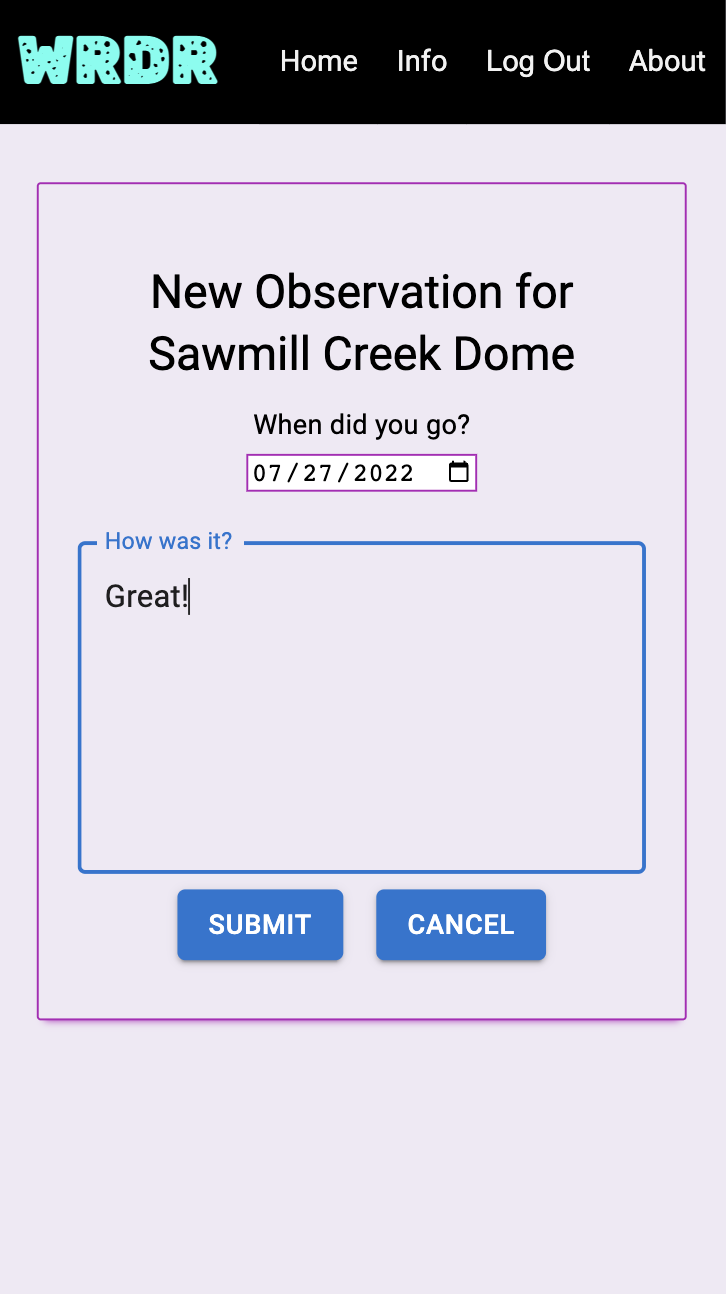
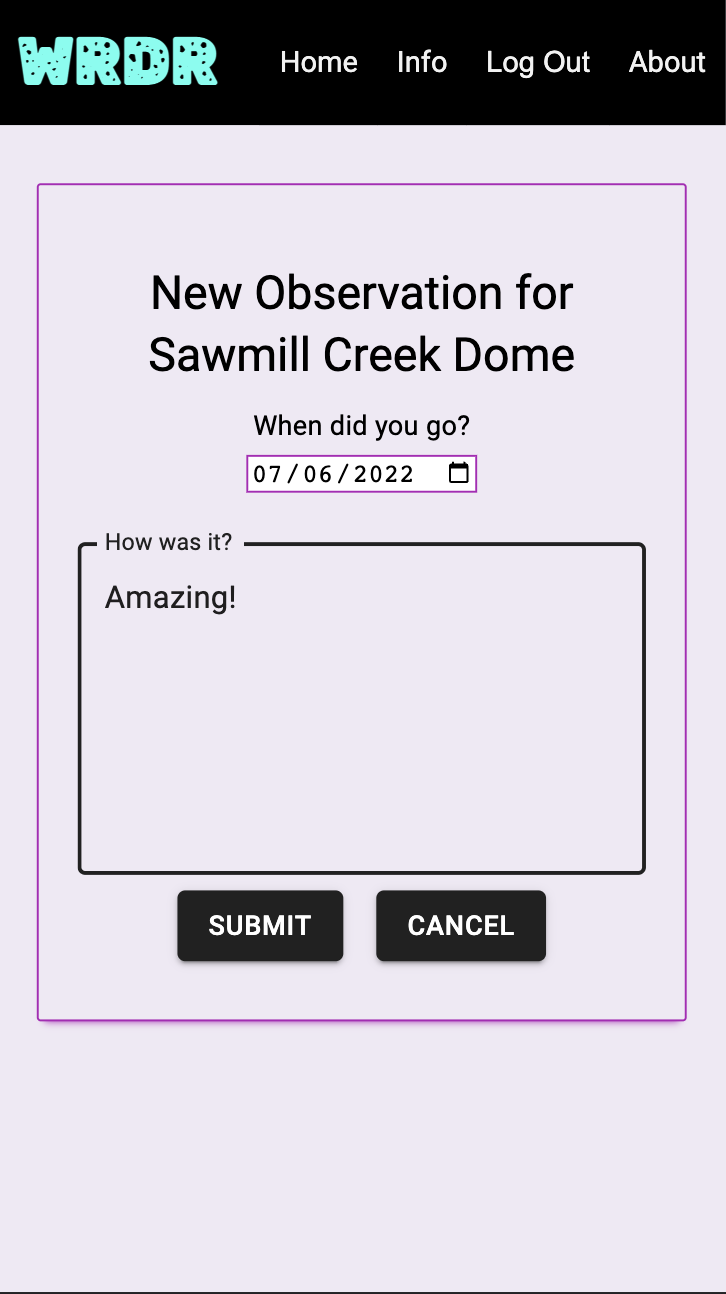
MUI color theme, new screenshots, info page, and increased API retry call delay

diff --git a/src/components/InfoPage/InfoPage.jsx b/src/components/InfoPage/InfoPage.jsx
@@ -1,4 +1,6 @@
 import React from 'react';
+import Typography from '@mui/material/Typography';
+import image from './palisade2.jpeg';
 
 // This is one of our simplest components
 // It doesn't have local state
@@ -7,8 +9,16 @@ import React from 'react';
 
 function InfoPage() {
   return (
-    <div className="container">
-      <p>Info Page</p>
+    <div className="areas-container">
+      <Typography variant='h6'>
+        WRDR was built with: <br /> 
+        </Typography>
+        <Typography variant='body2'>
+        React, Redux, Redux-Saga, Express, Node.js, PostgreSQL, 
+        Material UI, and The National Weather Service API (https://api.weather.gov);
+      </Typography>
+      <br />
+      <img src={image} alt="" />
     </div>
   );
 }

diff --git a/src/redux/sagas/forecast.saga.js b/src/redux/sagas/forecast.saga.js
@@ -37,7 +37,7 @@ function* fetchForecast(action){
         // if there's an error, try above requests 5 more times with a delay
         if (tries < 5) {
             yield tries++;
-            yield delay(500*tries); //exponential backoff: delay increases each time
+            yield delay(750*tries); //exponential backoff: delay increases each time
             yield put({ type: 'FETCH_FORECAST', action: action });
         } else {
             // alert('National Weather Service API not responding. Refresh to retry');

diff --git a/src/index.js b/src/index.js
@@ -6,9 +6,22 @@ import store from './redux/store';
 
 import App from './components/App/App';
 
+// for MUI color theme
+import { createTheme, ThemeProvider} from '@mui/material/styles';
+
+const theme = createTheme({
+  palette: {
+    primary: {
+      main: '#212121',
+    }
+  },
+});
+
 ReactDOM.render(
   <Provider store={store}>
-    <App />
+    <ThemeProvider theme={theme}>
+      <App />
+    </ThemeProvider>
   </Provider>,
   document.getElementById('react-root'),
 );

diff --git a/src/components/App/App.css b/src/components/App/App.css
@@ -105,7 +105,7 @@ Form Treatment
   margin: 0 auto 20px;
   background-color: #EFE9F4;
   box-shadow: 0 4px 4px -3px rgb(176, 31, 184);
-  border: rgb(176, 31, 184) solid 1px;
+  border: rgb(176, 31, 184) solid 2px;
   border-radius: 3px;
   text-align: center;
 }

diff --git a/src/components/UserPage/UserPage.css b/src/components/UserPage/UserPage.css
@@ -18,7 +18,7 @@
     background-color: #EFE9F4;
     text-align: center;
     box-shadow: 0 4px 4px -4px rgb(176, 31, 184);
-    border: rgb(176, 31, 184) solid 1px;
+    border: rgb(176, 31, 184) solid 2px;
     border-radius: 2px;
     margin: 20px;
   }

diff --git a/src/components/AreaDetails/AreaDetails.css b/src/components/AreaDetails/AreaDetails.css
@@ -3,7 +3,7 @@
     background-color: #EFE9F4;
     text-align: center;
     box-shadow: 0 4px 4px -4px rgb(176, 31, 184);
-    border: rgb(176, 31, 184) solid 1px;
+    border: rgb(176, 31, 184) solid 2px;
     border-radius: 2px;
     margin: 20px;
 }
